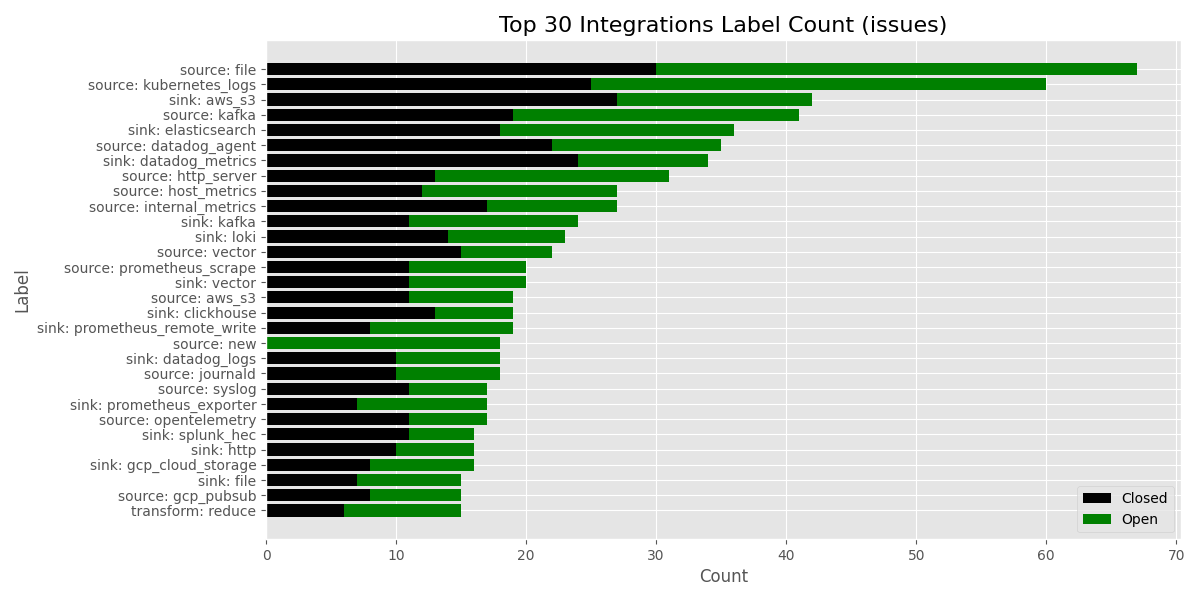
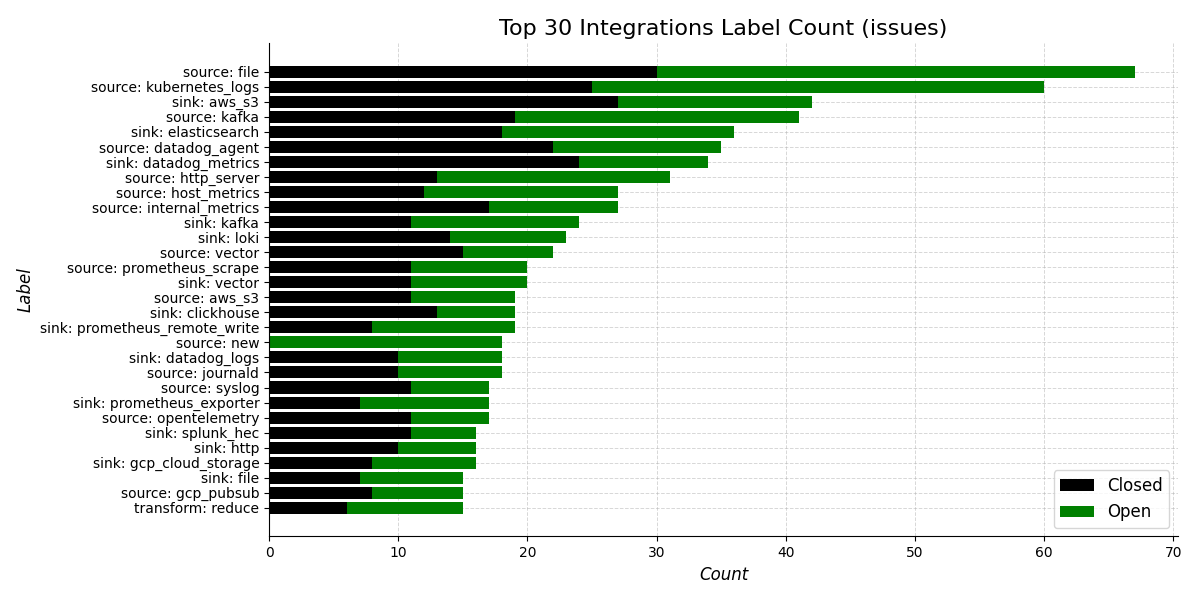
aesthetic plot improvements

diff --git a/scripts/util/plot.py b/scripts/util/plot.py
@@ -13,10 +13,9 @@ from matplotlib.ticker import MaxNLocator
 
 from scripts.logging.custom_logging import setup_logger
 
-
 # Constants
 SCRIPT_DIR = os.path.dirname(os.path.abspath(__file__))
-OUTPUT_DIR = os.path.abspath(os.path.join(SCRIPT_DIR, "../../images"))
+OUTPUT_DIR = os.path.abspath(os.path.join(SCRIPT_DIR, "../../out/images"))
 os.makedirs(OUTPUT_DIR, exist_ok=True)
 
 # Custom label color overrides
@@ -37,8 +36,31 @@ COLOR_MAP = {
     "closed_pull_requests": "#27b01c",
 }
 
+def setup_styles():
+    plt.rcParams["font.family"] = "DejaVu Sans"
+    plt.rcParams["font.size"] = 12
+    plt.rcParams["axes.titlesize"] = 16
+    plt.rcParams["axes.labelsize"] = 12
+    plt.rcParams["xtick.labelsize"] = 10
+    plt.rcParams["ytick.labelsize"] = 10
+    plt.rcParams["axes.spines.top"] = False
+    plt.rcParams["axes.spines.right"] = False
+    plt.rcParams["axes.spines.left"] = True
+    plt.rcParams["axes.spines.bottom"] = True
+    plt.rcParams["axes.axisbelow"] = True
+    plt.rcParams["axes.grid"] = True
+    plt.rcParams["grid.alpha"] = 0.5
+    plt.rcParams["grid.linestyle"] = "--"  # make all grids dashed
+    plt.rcParams["grid.linewidth"] = 0.7
+
+def set_axis_labels(ax, xlabel, ylabel):
+    ax.set_xlabel(xlabel, fontsize=12, fontstyle='italic')
+    ax.set_ylabel(ylabel, fontsize=12, fontstyle='italic')
+
+
 def main():
     setup_logger()
+    setup_styles()
 
     parser = argparse.ArgumentParser(description="Generate visual summaries from GitHub issues CSVs.")
     parser.add_argument("--input-dir", required=True, help="Directory containing the summary CSV files")
@@ -101,23 +123,22 @@ def plot_monthly_summary_basic(path, table, start_date=None):
         df["month"] = pd.to_datetime(df["month"])
 
         plt.figure(figsize=(12, 6))
-        plt.style.use("ggplot")
 
         open_key = f"open_{table}"
-        plt.plot(df["month"], df[open_key], label=f"Open {table}", color=COLOR_MAP.get(open_key), linewidth=4, marker='o')
+        plt.plot(df["month"], df[open_key], label=f"Open {table}", color=COLOR_MAP.get(open_key), linewidth=3, marker='o')
+        plt.xticks(rotation=45)  # Rotate month labels
 
         closed_key = f"closed_{table}"
-        plt.plot(df["month"], df[closed_key], label=f"Closed {table}", color=COLOR_MAP.get(closed_key), linewidth=4, marker='o')
+        plt.plot(df["month"], df[closed_key], label=f"Closed {table}", color=COLOR_MAP.get(closed_key), linewidth=3, marker='o')
         plt.plot(df["month"], df["type: bug"], label="Bugs", color=COLOR_MAP.get("type: bug"), linewidth=2, linestyle='--')
         plt.plot(df["month"], df["type: feature"], label="Features", color=COLOR_MAP.get("type: feature"), linewidth=2, linestyle='--')
         plt.plot(df["month"], df["type: enhancement"], label="Enhancements", color=COLOR_MAP.get("type: enhancement"), linewidth=2, linestyle='--')
 
         plt.title(f"Monthly GitHub Trends ({table})", fontsize=16)
-        plt.xlabel("Month", fontsize=12)
-        plt.ylabel("Count", fontsize=12)
-        plt.xticks(rotation=45)
+        ax = plt.gca()
+        set_axis_labels(ax, "Month", "Count")
+
         plt.legend()
-        plt.grid(True)
         plt.tight_layout()
 
         output_path = os.path.join(OUTPUT_DIR, f"{table}.monthly_issues_trend.png")
@@ -174,12 +195,13 @@ def plot_integration_trends(csv_path, table, start_date=None, exclude_labels=Non
     # Format the Y-axis to have integer ticks only (appropriate for count data)
     ax.yaxis.set_major_locator(MaxNLocator(
         integer=True))  # force y-axis to use integer tick labels&#8203;:contentReference[oaicite:5]{index=5}
-    ax.set_ylabel("Count")  # Y-axis label (counts)
-    ax.set_xlabel("Month")  # X-axis label (month)
-    ax.set_title(f"Integrations Trend ({table})", fontsize=16)  # Plot title (can be adjusted as needed)
-    plt.xticks(rotation=45)  # Rotate month labels if they are long (optional)
+    ax = plt.gca()
+    set_axis_labels(ax, "Month", "Count")
+
+    ax.set_title(f"Integrations Top {top_n} Trend ({table})", fontsize=16)  # Plot title (can be adjusted as needed)
     ax.legend(title="Labels", bbox_to_anchor=(1.02, 1), loc="upper left", borderaxespad=0)
 
+    plt.xticks(rotation=45)
     plt.tight_layout()  # Adjust layout to fit labels
 
     output_path = os.path.join(OUTPUT_DIR, f"{table}.integrations.top_{top_n}.monthly_trend.png")
@@ -187,7 +209,7 @@ def plot_integration_trends(csv_path, table, start_date=None, exclude_labels=Non
     logging.info(f"Saved plot to {output_path}")
     plt.close()
 
-def plot_label_breakdown(path, table, top_n=15, start_date=None, exclude_labels=None):
+def plot_label_breakdown(path, table, top_n=20, start_date=None, exclude_labels=None):
     try:
         df = pd.read_csv(path)
 
@@ -203,9 +225,10 @@ def plot_label_breakdown(path, table, top_n=15, start_date=None, exclude_labels=
 
         plt.figure(figsize=(10, 6))
         plt.barh(df["label_name"], df["count"], color=colors)
-        plt.title(f"Top Labels by Frequency ({table})", fontsize=16)
-        plt.xlabel("Count", fontsize=12)
-        plt.gca().invert_yaxis()
+        plt.title(f"Top {top_n} Labels by Frequency ({table})", fontsize=16)
+        ax = plt.gca()
+        set_axis_labels(ax, "Count", "Label")
+        ax.invert_yaxis()
         plt.tight_layout()
 
         output_path = os.path.join(OUTPUT_DIR, f"{table}.top_labels.png")
@@ -270,10 +293,9 @@ def plot_label_count(path, table, top_n=8, start_date=None, exclude_labels=None)
         # Axes styling
         ax.set_xticks(np.arange(len(months)))
         ax.set_xticklabels(months, rotation=45)
-        ax.set_xlabel("Month")
-        ax.set_ylabel(f"Count")
+        set_axis_labels(ax, "Month", "Label")
+
         ax.set_title(f"Top {top_n} Labels Over Time ({table})", fontsize=16)
-        ax.grid(axis='y', linestyle='--', alpha=0.7)
 
         # Legend sorted by total volume
         label_totals = pivot_df.sum().to_dict()
@@ -318,8 +340,8 @@ def plot_label_state_counts(path, table, top_n, exclude_labels=None):
         ax.barh(df["label_name"], df["closed_count"], label="Closed", color="black")
         ax.barh(df["label_name"], df["open_count"], left=df["closed_count"], label="Open", color="green")
 
-        ax.set_xlabel("Count")
-        ax.set_ylabel("Label")
+        set_axis_labels(ax, "Count", "Label")
+
         ax.set_title(f"Top {top_n} Integrations Label Count ({table})", fontsize=16)
         ax.legend(loc="lower right")
         plt.tight_layout()

diff --git a/scripts/db/generate_summary.py b/scripts/db/generate_summary.py
@@ -74,7 +74,7 @@ def export_monthly_summary(cur, table):
 
 def export_label_breakdown(cur, table):
     logging.info(f"Executing label breakdown query for table '{table}'...")
-    output_path = os.path.join(OUTPUT_DIR, f"label_breakdown.{table}.csv")
+    output_path = os.path.join(OUTPUT_DIR, f"{table}.label_breakdown.csv")
     where_clause = "WHERE is_draft = 0" if table == "pull_requests" else ""
 
     query = f"""

diff --git a/README.md b/README.md
@@ -39,3 +39,4 @@ Look at the `static` directory. I manually saved some snapshots in there.
 ![Top PR Labels](out/images/pull_requests.top_labels.png)
 ![PR Label Counts](out/images/pull_requests.label_counts.png)
 ![Top 5 Integration PR Labels](out/images/pull_requests.integrations.top_5.monthly_trend.png)
+![Top Integration PRs By Label Total Count](out/images/pull_requests.open_closed_total_label_count.png)
